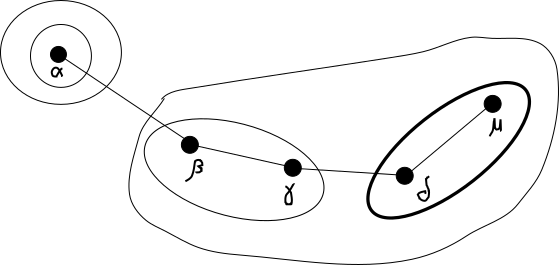
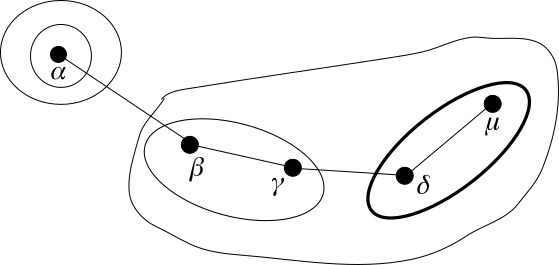
Porting doc UsoIndirizziVirtuali.
Aggiunto step 2.

diff --git a/ita/ModuloQspn/UsoIndirizziVirtuali/Step2.md b/ita/ModuloQspn/UsoIndirizziVirtuali/Step2.md
@@ -1,0 +1,139 @@
+# Modulo QSPN - Esempio di uso degli indirizzi virtuali
+
+## Passo 2
+
+In questo passo specifichiamo la topologia che è usata nella rete.
+
+Consideriamo una topologia a 3 livelli con *gsize* ad ogni livello = 2. Quindi abbiamo a disposizione solo
+2<sup>3</sup> = 8 indirizzi, da 10.0.0.0 a 10.0.0.7 in IPv4.
+
+Usiamo anche gli indirizzi IP *interni* ai g-nodi:
+
+*   dentro ogni g-nodo di livello 1 abbiamo 2 indirizzi: da 10.0.1.0 a 10.0.1.1.
+*   dentro ogni g-nodo di livello 2 abbiamo 4 indirizzi: da 10.0.2.0 a 10.0.2.3.
+
+Inoltre supponiamo che le fasi iniziali della formazione della rete sono state già eseguite e che si sia giunti
+ad una assegnazione di indirizzi e percorsi come preciseremo sotto.
+
+Indichiamo gli indirizzi dei singoli nodi con una tupla di 3 elementi separati da "·",
+p<sub>2</sub>·p<sub>1</sub>·p<sub>0</sub>, dove p<sub>0</sub> è la posizione del nodo nel g-nodo
+di livello 1, ..., p<sub>2</sub> è la posizione del g-nodo di livello 2 nella rete.
+
+Indichiamo i g-nodi di livello 1 con una tupla di 2 elementi terminati con un "·", p<sub>2</sub>·p<sub>1</sub>·.
+
+Indichiamo i g-nodi di livello 2 con una tupla di 1 elemento terminato con un "·", p<sub>2</sub>·.
+
+Indichiamo con la scrittura *g<sub>1</sub>(𝛼)*, *g<sub>2</sub>(𝛼)*, ..., il g-nodo di livello 1, 2, ..., a cui appartiene il nodo 𝛼.
+
+Assegnamo questi indirizzi:
+
+*   𝛼 = 0·1·0
+*   𝛽 = 1·1·1
+*   𝛾 = 1·1·0
+*   𝛿 = 1·0·1
+*   𝜇 = 1·0·0
+
+Quindi abbiamo che i g-nodi di livello 1 sono:
+
+*   g<sub>1</sub>(𝛼) = 0·1· = {𝛼}
+*   g<sub>1</sub>(𝛽) = 1·1· = {𝛽, 𝛾} e gli archi {𝛽-𝛾} quindi è connesso
+*   g<sub>1</sub>(𝛿) = 1·0· = {𝛿, 𝜇} e gli archi {𝛿-𝜇} quindi è connesso
+
+mentre i g-nodi di livello 2 sono:
+
+*   g<sub>2</sub>(𝛼) = 0· = {𝛼}
+*   g<sub>2</sub>(𝛽) = 1· = {𝛽, 𝛾, 𝛿, 𝜇} e gli archi {𝛽-𝛾, 𝛾-𝛿, 𝛿-𝜇} quindi è connesso
+
+![grafo2](img/Step2/grafo2.png)
+
+Dopo le trasmissioni dei messaggi ETP:
+
+*   Il nodo 𝛼 sa di poter raggiungere il g-nodo 1· passando per l'arco 𝛼-𝛽.
+*   Il nodo 𝛽 sa di poter raggiungere il g-nodo 0· passando per l'arco 𝛽-𝛼.
+*   Il nodo 𝛽 sa di poter raggiungere il g-nodo 1·0· passando per l'arco 𝛽-𝛾.
+*   Il nodo 𝛽 sa di poter raggiungere il nodo 1·1·0 passando per l'arco 𝛽-𝛾.
+*   Il nodo 𝛾 sa di poter raggiungere il g-nodo 0· passando per l'arco 𝛾-𝛽.
+*   Il nodo 𝛾 sa di poter raggiungere il g-nodo 1·0· passando per l'arco 𝛾-𝛿.
+*   Il nodo 𝛾 sa di poter raggiungere il nodo 1·1·1 passando per l'arco 𝛾-𝛽.
+*   Il nodo 𝛿 sa di poter raggiungere il g-nodo 0· passando per l'arco 𝛿-𝛾.
+*   Il nodo 𝛿 sa di poter raggiungere il g-nodo 1·1· passando per l'arco 𝛿-𝛾.
+*   Il nodo 𝛿 sa di poter raggiungere il nodo 1·0·0 passando per l'arco 𝛿-𝜇.
+*   Il nodo 𝜇 sa di poter raggiungere il g-nodo 0· passando per l'arco 𝜇-𝛿.
+*   Il nodo 𝜇 sa di poter raggiungere il g-nodo 1·1· passando per l'arco 𝜇-𝛿.
+*   Il nodo 𝜇 sa di poter raggiungere il nodo 1·0·1 passando per l'arco 𝜇-𝛿.
+
+Diamo questi comandi ai sistemi:
+
+**sistema 𝛼**
+```
+ip route add unreachable 10.0.0.0/29
+ip route add unreachable 10.0.2.0/30
+ip route add unreachable 10.0.1.0/31
+ip address add 10.0.0.2 dev eth1
+ip address add 10.0.2.2 dev eth1
+ip address add 10.0.1.0 dev eth1
+ip route add 10.0.0.4/30 src 10.0.0.2 via 169.254.96.141 dev eth1
+```
+**sistema 𝛽**
+```
+ip route add unreachable 10.0.0.0/29
+ip route add unreachable 10.0.2.0/30
+ip route add unreachable 10.0.1.0/31
+ip address add 10.0.0.7 dev eth1
+ip address add 10.0.2.3 dev eth1
+ip address add 10.0.1.1 dev eth1
+ip route add 10.0.0.0/30 src 10.0.0.7 via 169.254.69.30 dev eth1
+ip route add 10.0.0.4/31 src 10.0.0.7 via 169.254.94.223 dev eth1
+ip route add 10.0.2.0/31 src 10.0.2.3 via 169.254.94.223 dev eth1
+ip route add 10.0.0.6/32 src 10.0.0.7 via 169.254.94.223 dev eth1
+ip route add 10.0.2.2/32 src 10.0.2.3 via 169.254.94.223 dev eth1
+ip route add 10.0.1.0/32 src 10.0.1.1 via 169.254.94.223 dev eth1
+```
+**sistema 𝛾**
+```
+ip route add unreachable 10.0.0.0/29
+ip route add unreachable 10.0.2.0/30
+ip route add unreachable 10.0.1.0/31
+ip address add 10.0.0.6 dev eth1
+ip address add 10.0.2.2 dev eth1
+ip address add 10.0.1.0 dev eth1
+ip route add 10.0.0.0/30 src 10.0.0.6 via 169.254.96.141 dev eth1
+ip route add 10.0.0.4/31 src 10.0.0.6 via 169.254.253.216 dev eth1
+ip route add 10.0.2.0/31 src 10.0.2.2 via 169.254.253.216 dev eth1
+ip route add 10.0.0.7/32 src 10.0.0.6 via 169.254.96.141 dev eth1
+ip route add 10.0.2.3/32 src 10.0.2.2 via 169.254.96.141 dev eth1
+ip route add 10.0.1.1/32 src 10.0.1.0 via 169.254.96.141 dev eth1
+```
+**sistema 𝛿**
+```
+ip route add unreachable 10.0.0.0/29
+ip route add unreachable 10.0.2.0/30
+ip route add unreachable 10.0.1.0/31
+ip address add 10.0.0.5 dev eth1
+ip address add 10.0.2.1 dev eth1
+ip address add 10.0.1.1 dev eth1
+ip route add 10.0.0.0/30 src 10.0.0.5 via 169.254.94.223 dev eth1
+ip route add 10.0.0.6/31 src 10.0.0.5 via 169.254.94.223 dev eth1
+ip route add 10.0.2.2/31 src 10.0.2.1 via 169.254.94.223 dev eth1
+ip route add 10.0.0.4/32 src 10.0.0.5 via 169.254.119.176 dev eth1
+ip route add 10.0.2.0/32 src 10.0.2.1 via 169.254.119.176 dev eth1
+ip route add 10.0.1.0/32 src 10.0.1.1 via 169.254.119.176 dev eth1
+```
+**sistema 𝜇**
+```
+ip route add unreachable 10.0.0.0/29
+ip route add unreachable 10.0.2.0/30
+ip route add unreachable 10.0.1.0/31
+ip address add 10.0.0.4 dev eth1
+ip address add 10.0.2.0 dev eth1
+ip address add 10.0.1.0 dev eth1
+ip route add 10.0.0.0/30 src 10.0.0.4 via 169.254.253.216 dev eth1
+ip route add 10.0.0.6/31 src 10.0.0.4 via 169.254.253.216 dev eth1
+ip route add 10.0.2.2/31 src 10.0.2.0 via 169.254.253.216 dev eth1
+ip route add 10.0.0.5/32 src 10.0.0.4 via 169.254.253.216 dev eth1
+ip route add 10.0.2.1/32 src 10.0.2.0 via 169.254.253.216 dev eth1
+ip route add 10.0.1.1/32 src 10.0.1.0 via 169.254.253.216 dev eth1
+```
+
+Proseguiamo con il [passo 3](Step3.md).
+
